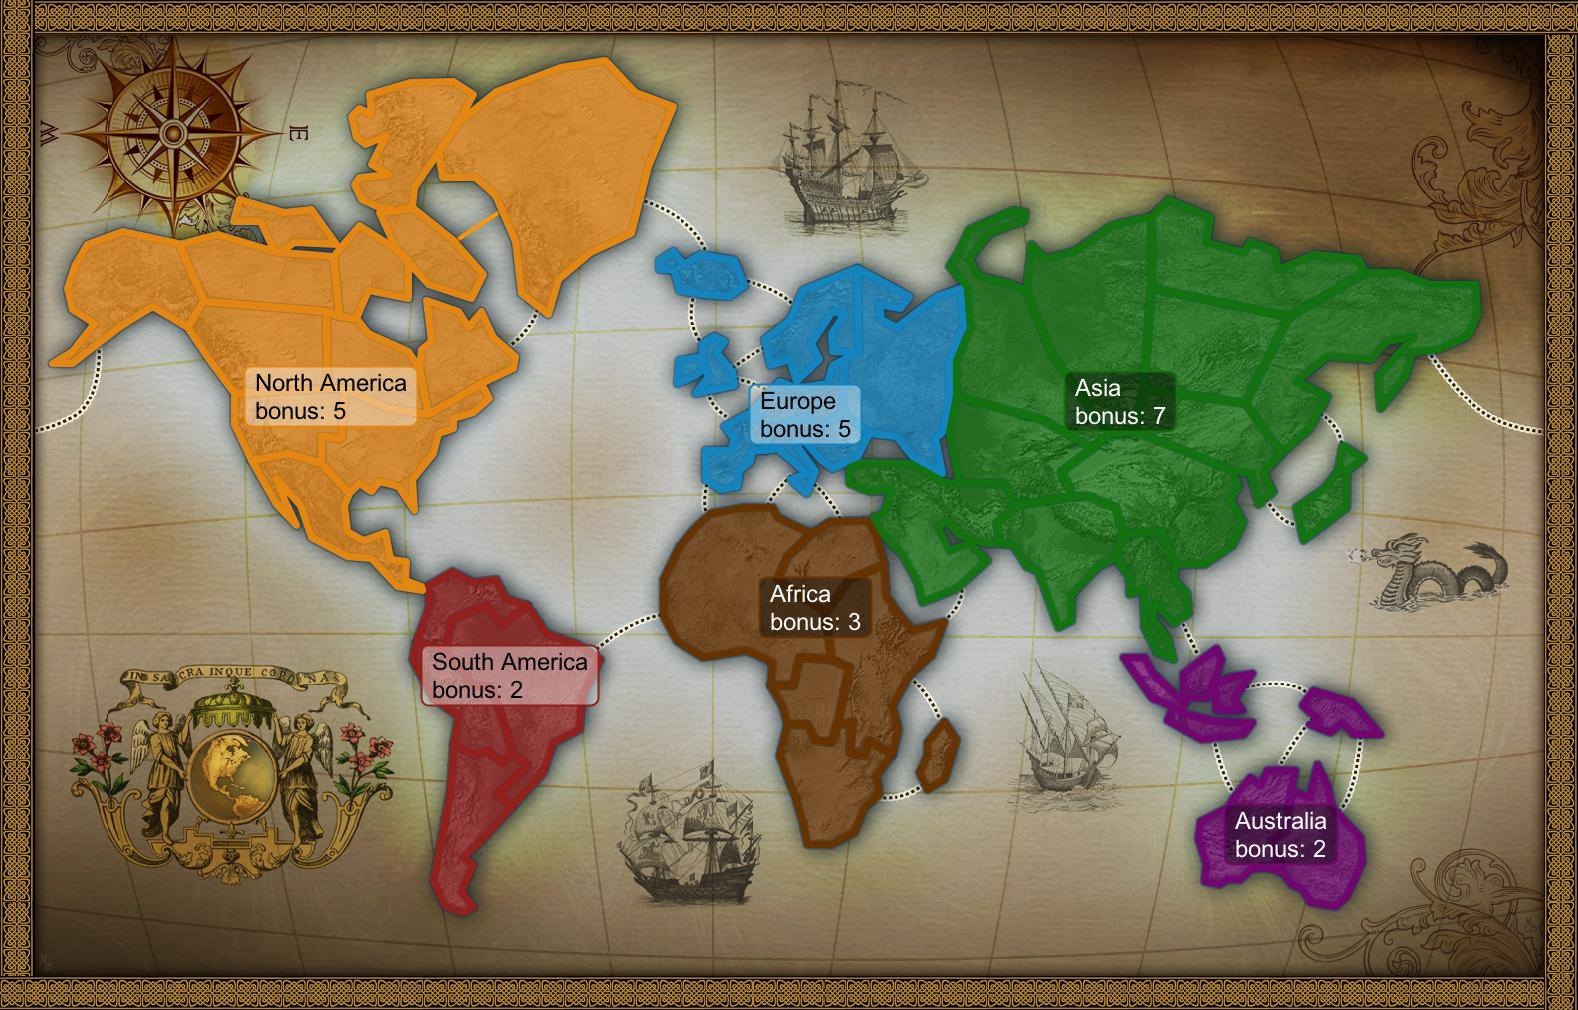
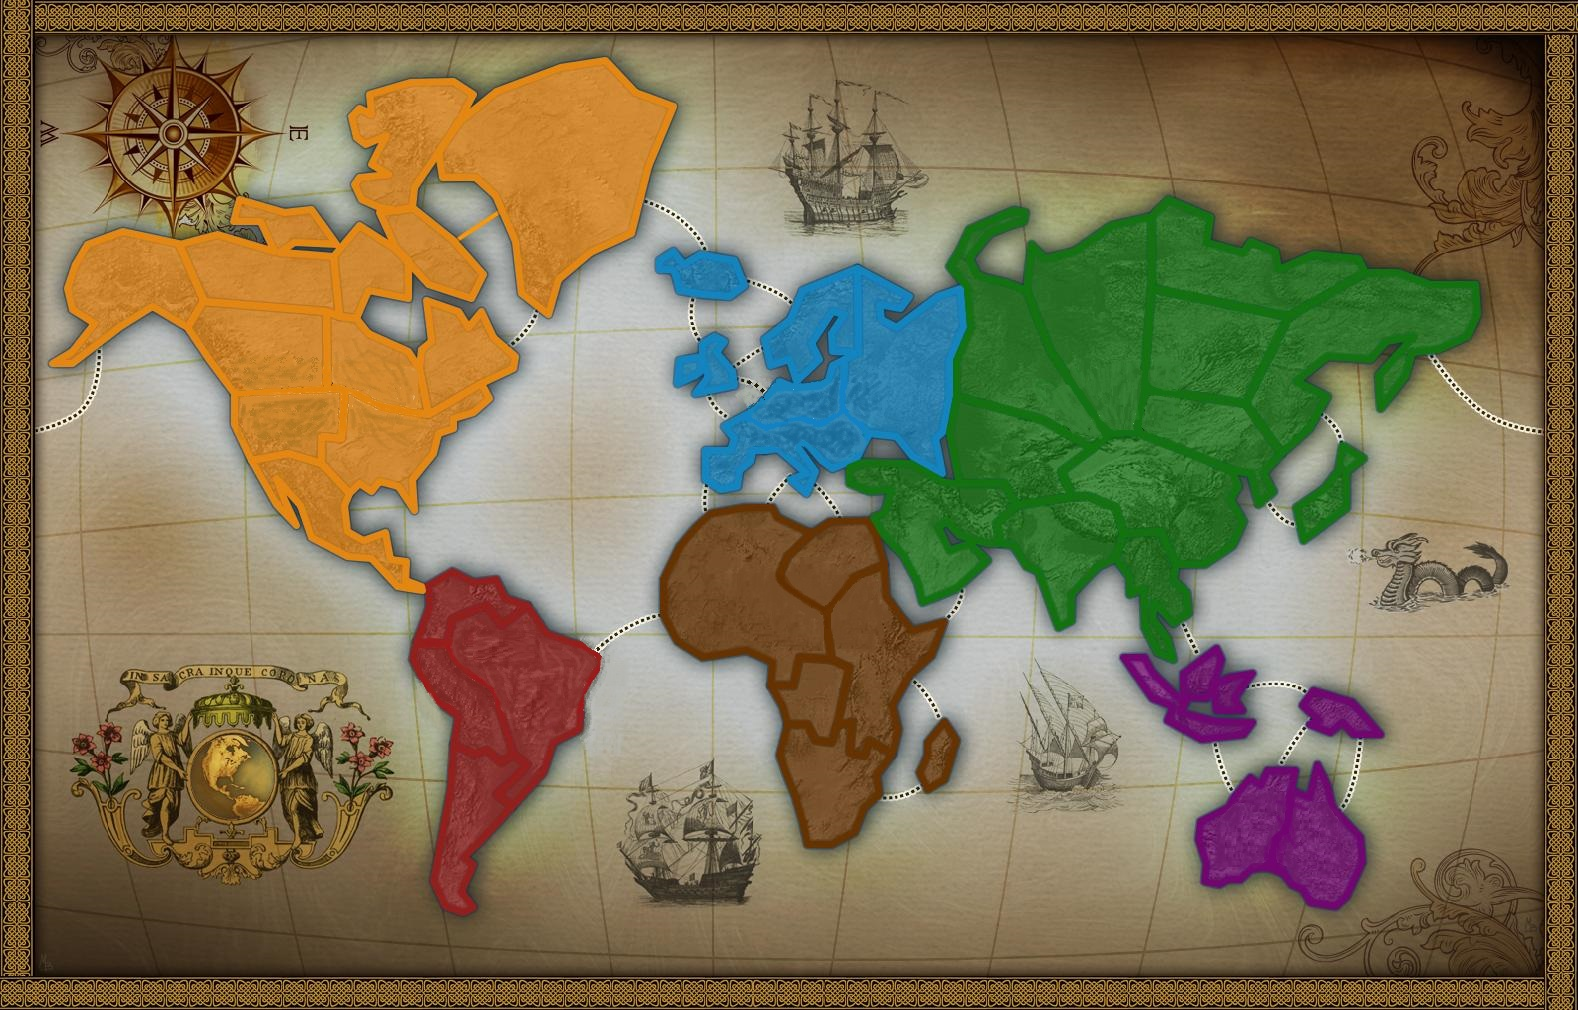
altered map and display order

diff --git a/src/RiskGui.java b/src/RiskGui.java
@@ -1,11 +1,8 @@
 import java.awt.*;
 import java.awt.image.BufferedImage;
 import javax.swing.*;
-
 import java.io.File;
 import java.io.IOException;
-import java.util.Arrays;
-
 import javax.imageio.ImageIO;
 
 public class RiskGui {
@@ -65,34 +62,34 @@ public class RiskGui {
 	    		g.setColor(Color.black);
 	            g.setFont( new Font("Helvetica", Font.BOLD, 12) );
 	            g.drawString(info1.getName(i), (info.getX(i)+10), info.getY(i));
-
-	            g.setColor(Color.white);
-
-	            if(i<=8) g.setColor(Color.red);
-	        	else if(i>8 &&i<16) g.setColor(Color.green);
-	        	else if(i>15 &&i<28) g.setColor(Color.blue);
-	        	else if(i>27 && i<32) g.setColor(Color.yellow);
-	        	else if(i>31 && i<36) g.setColor(Color.black);
-	        	else if(i>35 && i<42) g.setColor(Color.white);
-	        	
-	            g.fillOval(info.getX(i),info.getY(i) , 20, 20);
 	        	
 	            if(i<=8) g.setColor(Color.black);
 	        	else if(i>8 &&i<16) g.setColor(Color.yellow);
 	        	else if(i>15 &&i<28) g.setColor(Color.white);
 	        	else if(i>27 && i<32) g.setColor(Color.blue);
 	        	else if(i>31 && i<36) g.setColor(Color.red);
-	        	else if(i>35 && i<42) g.setColor(Color.green);	
-	            
-	            g.drawString("1", info.getX(i)+7, info.getY(i)+14); //draws the number 1(1 army for start) in the nodes
-	            
+	        	else if(i>35 && i<42) g.setColor(Color.green);
+	           	     
 	          //draws line between two points	
 	            for(int j=0; j<(info1.ADJACENT[i]).length; j++){ 	            	
 	    			temp = info1.ADJACENT[i][j];	
 	    			g.drawLine(info.getX(i)+10, info.getY(i)+7, info.getX(temp)+10, info.getY(temp)+7);
-	    		} 
+	    		}
+	    	}
+	            for(int i=0;i<42;i++){
+		            if(i<=8) g.setColor(Color.red);
+		        	else if(i>8 &&i<16) g.setColor(Color.green);
+		        	else if(i>15 &&i<28) g.setColor(Color.blue);
+		        	else if(i>27 && i<32) g.setColor(Color.yellow);
+		        	else if(i>31 && i<36) g.setColor(Color.black);
+		        	else if(i>35 && i<42) g.setColor(Color.pink);
+		        	
+		            g.fillOval(info.getX(i),info.getY(i) , 20, 20);
+		            
+		            g.setColor(Color.white);
+		            g.drawString("1", info.getX(i)+7, info.getY(i)+14); //draws the number 1(1 army for start) in the nodes
+	            }
 	           
-	        }
 	    }
 	}
 }

diff --git a/src/main.java b/src/main.java
@@ -1,3 +1,12 @@
+/*
+ * Persons Cubed Risk
+ * -Steven Clerkin
+ * -Roisin McLarney
+ * -Natalia Tonoulier 
+ */
+
+
+
 import java.io.IOException;
 
 public class main {
